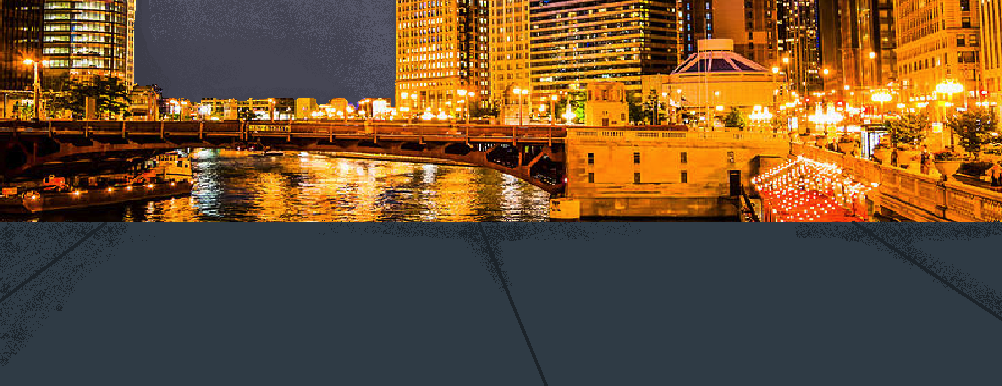
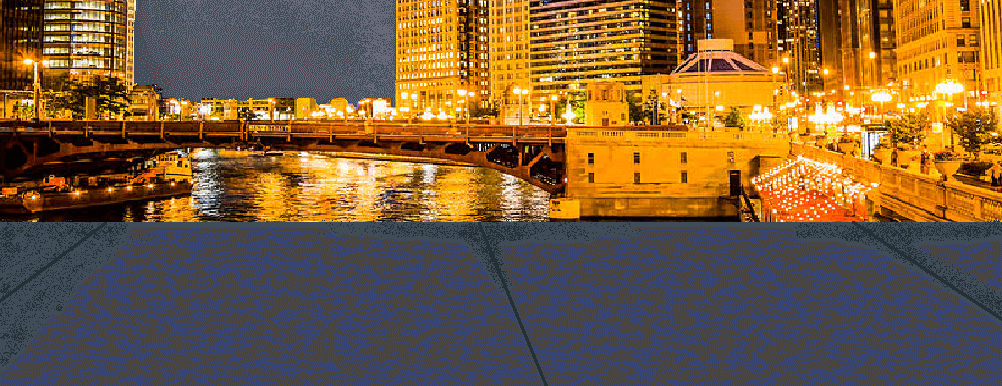
fixed ted click area alignment issue, reduced size of all background image files by 70%

diff --git a/app/styles/teds-trinkets-scene.css b/app/styles/teds-trinkets-scene.css
@@ -89,7 +89,7 @@
 }
 
 .ted {
-  top: -100rem;
+  top: -125rem;
   left: 61rem;
   width: 7.5rem;
   height: 9.5rem;
